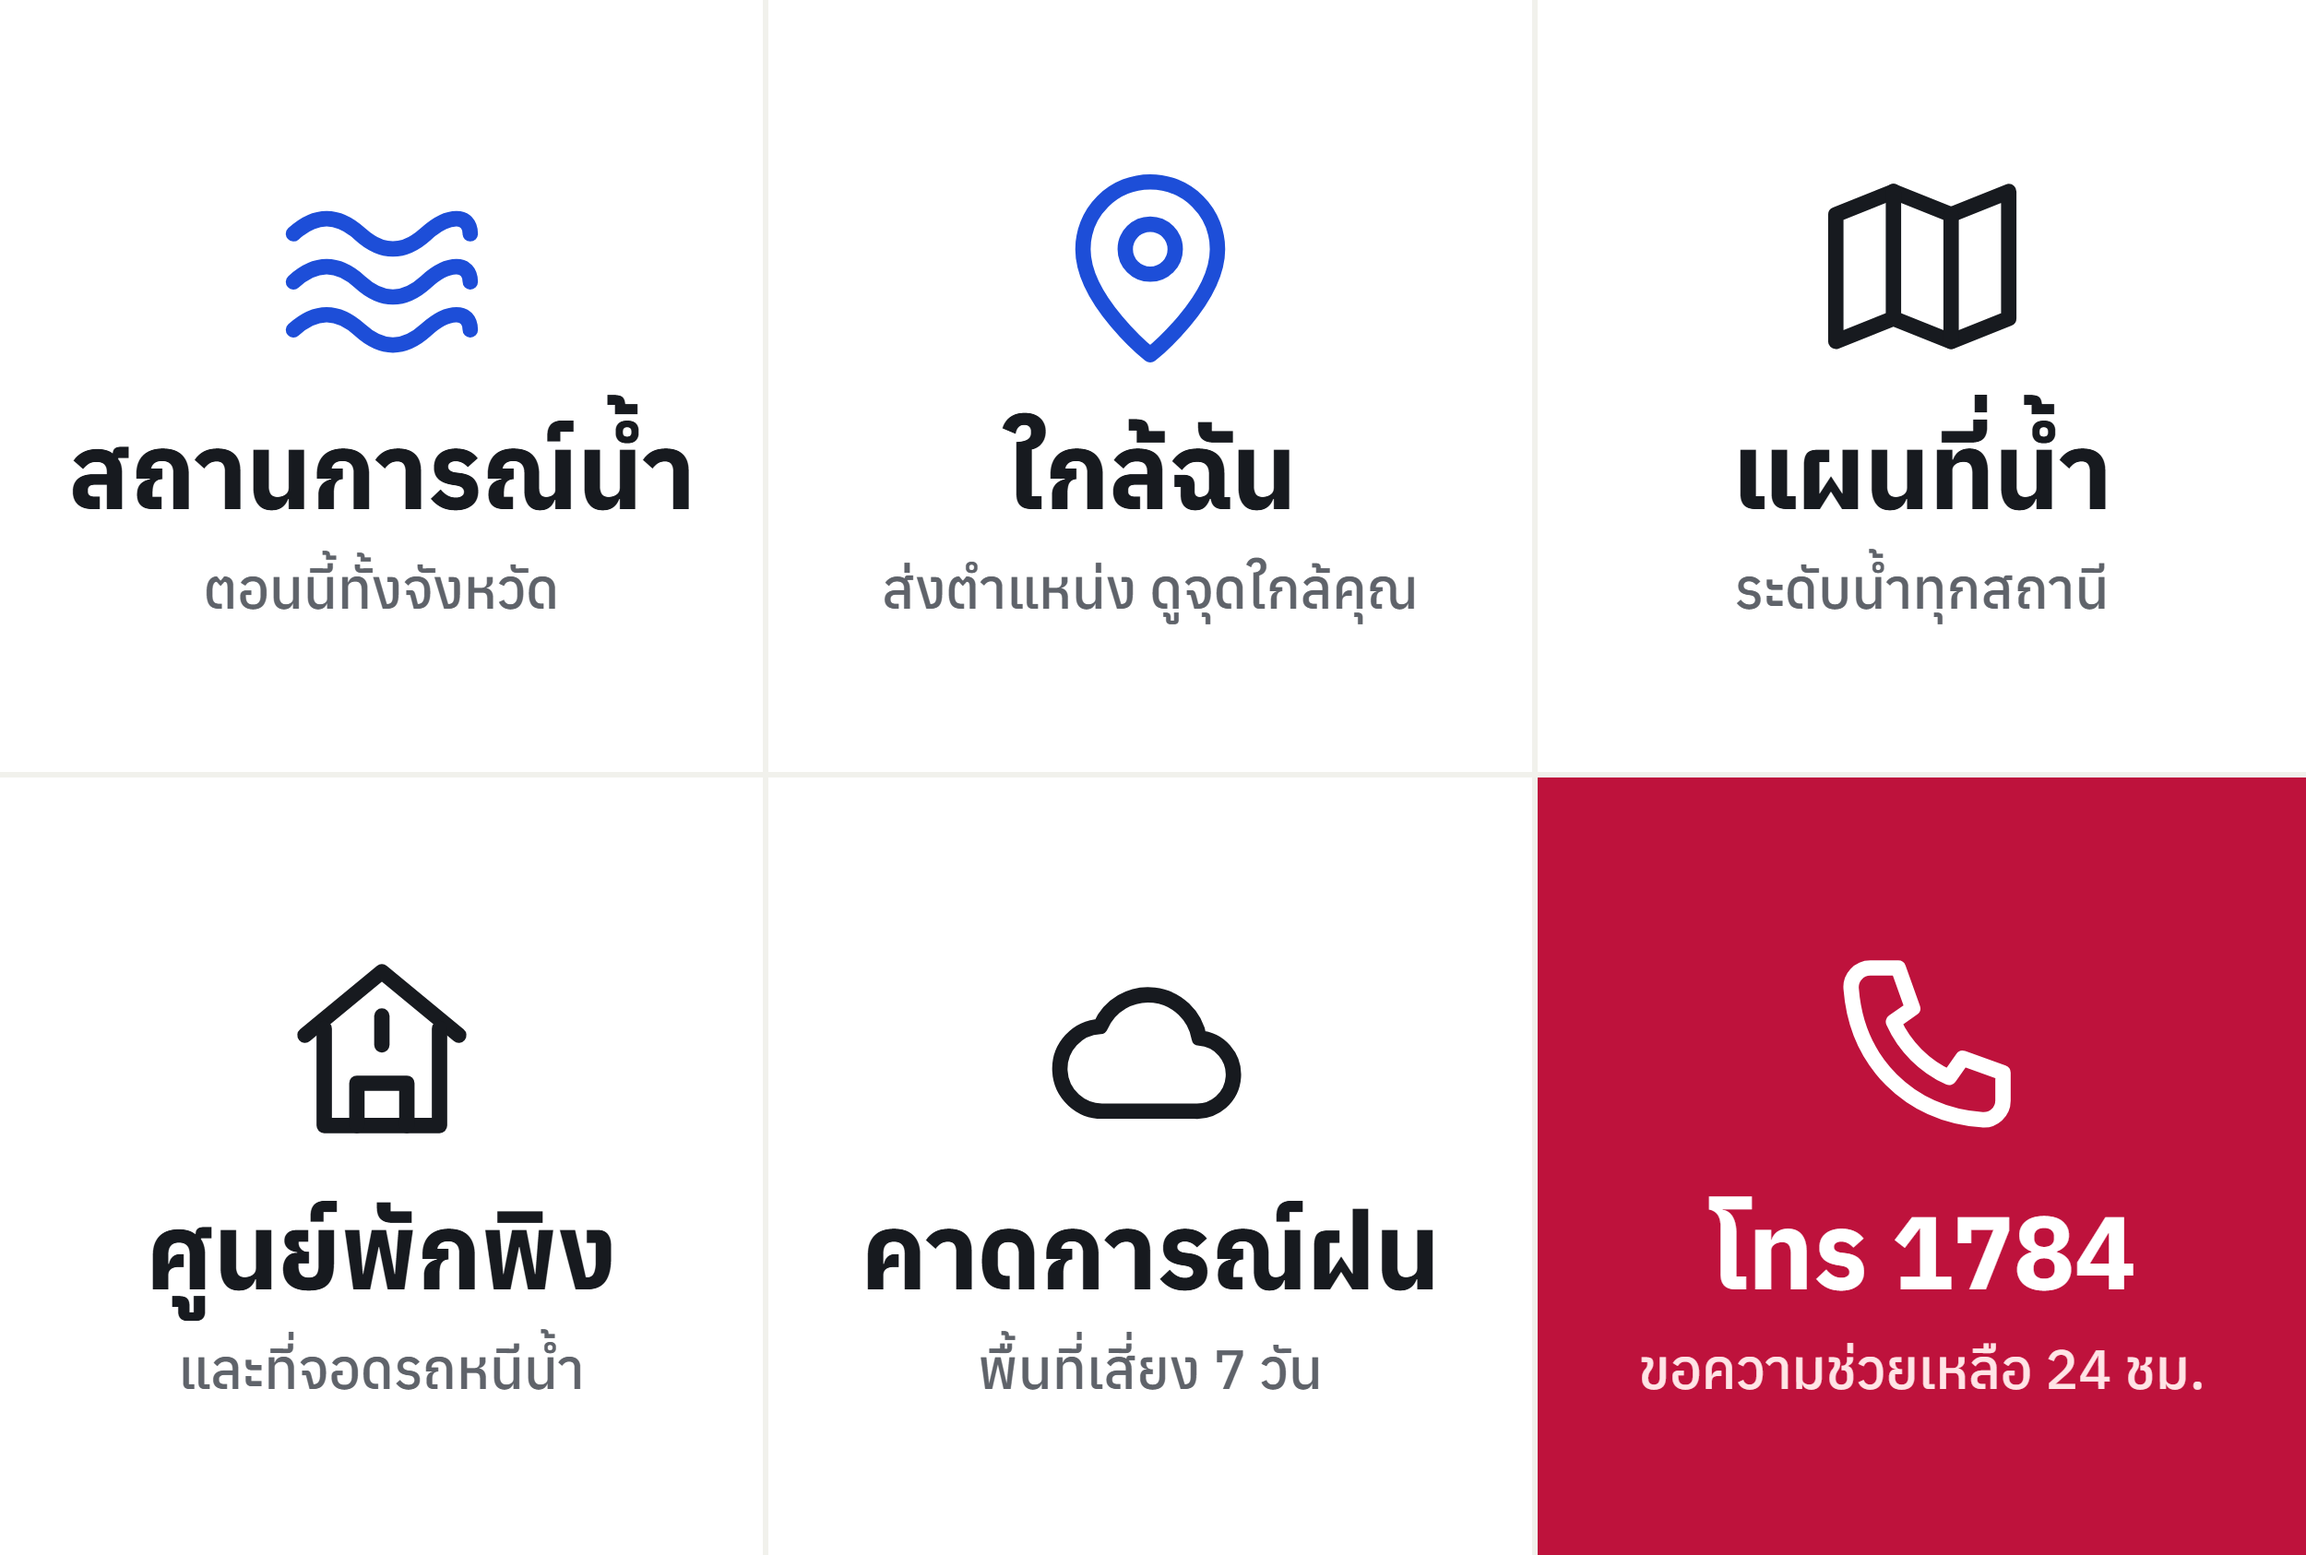
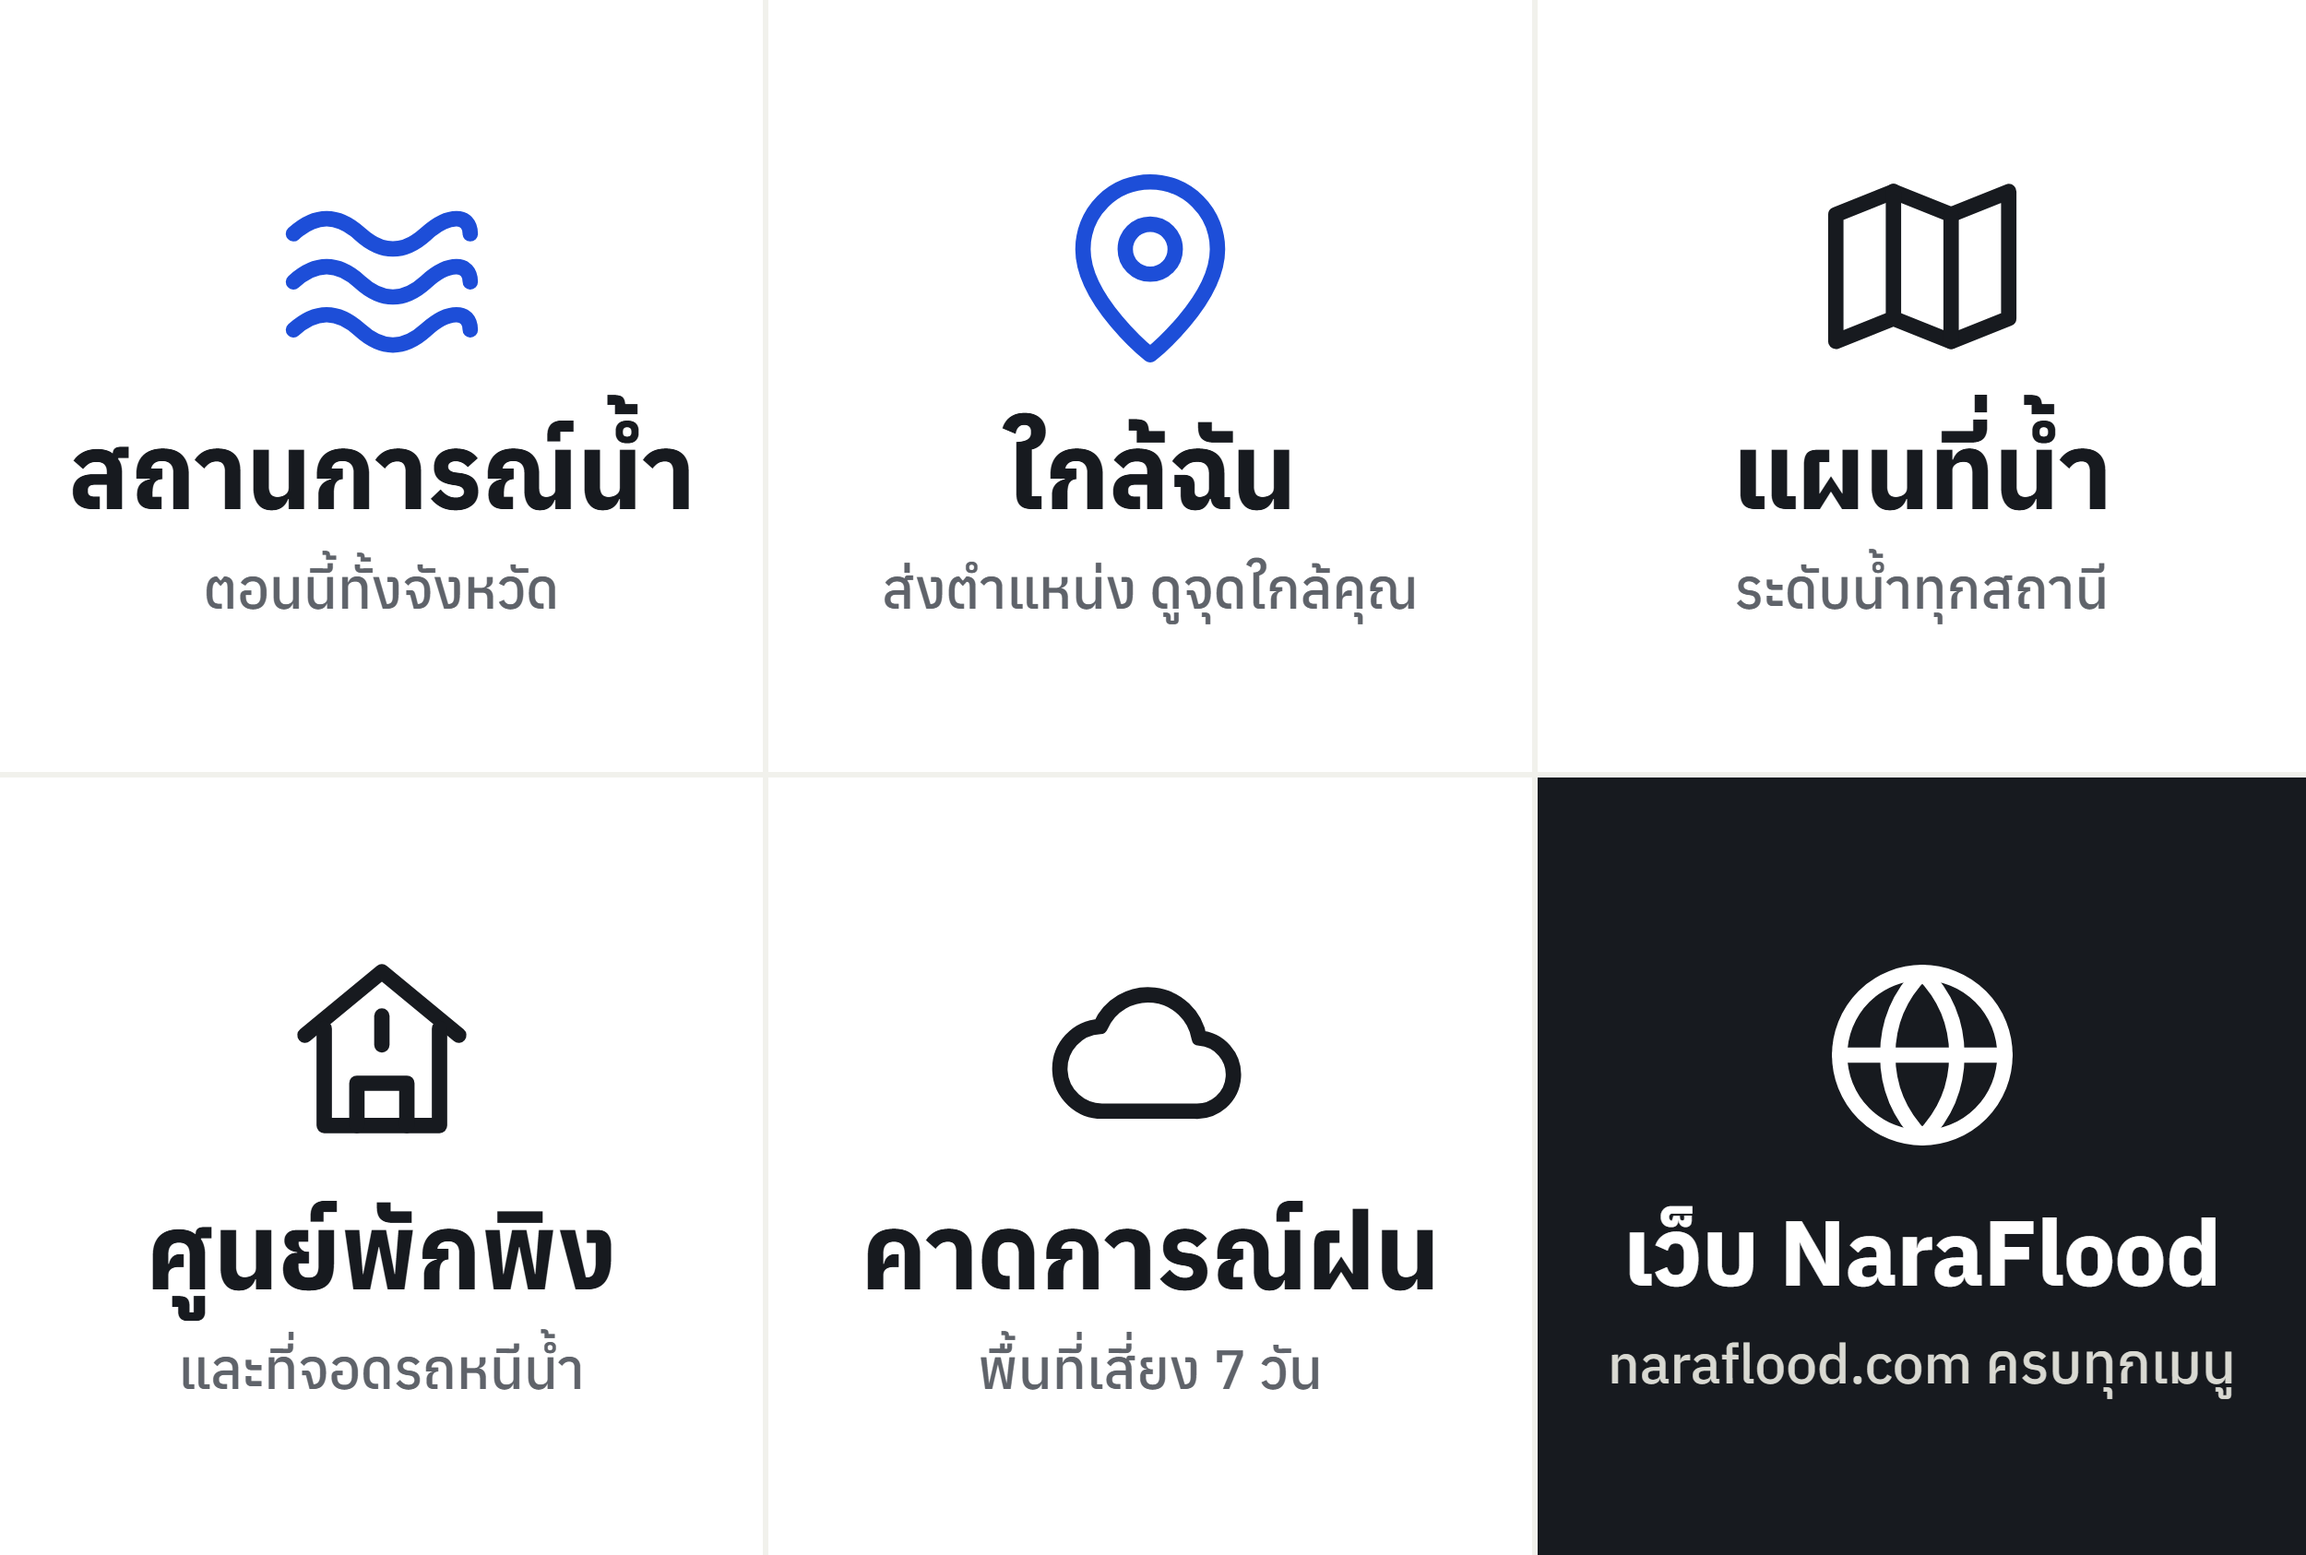
Swap the rich menu's 1784 button for a link to the website
The bottom-right button now opens https://naraflood.com/ in place of dialing
1784. It drops the red, which shared.css reserves for danger, and uses the
site's dark chrome color with a globe icon so it does not look like the
shelter button. The hotline is still in the welcome message and in the
"ช่วยเหลือ" quick reply.

Changed region(s): [[0.6552, 0.4935, 1.0, 1.0]]

diff --git a/line-oa/richmenu.html b/line-oa/richmenu.html
@@ -4,7 +4,7 @@
 <meta charset="utf-8">
 <title>NaraFlood rich menu 2500×1686</title>
 <!-- ต้นฉบับรูป rich menu · ขนาดจริง 2500×1686 px · ถ่ายใหม่ด้วยคำสั่งใน line-oa/README.md
-     สีคัดจาก token ใน shared.css (paper, card, ink, line, st-danger) · ไอคอนชุดเดียวกับ js/tabbar.js
+     สีคัดจาก token ใน shared.css (paper, card, ink, line) · ช่องเว็บใช้สีเข้มของตัวเว็บ ไม่ใช้แดงที่สงวนไว้กับสถานการณ์ · ไอคอนชุดเดียวกับ js/tabbar.js
      ผังช่องต้องตรงกับ bounds ใน richmenu.json (3 คอลัมน์ 833/834/833 × 2 แถว 843) -->
 <link rel="preconnect" href="https://fonts.googleapis.com">
 <link rel="preconnect" href="https://fonts.gstatic.com" crossorigin>
@@ -12,7 +12,7 @@
 <style>
   :root{
     --paper:#f1f1ec; --card:#ffffff; --ink:#171a1f; --ink-3:#5f636a; --line:#d9d9d2;
-    --data:#1d4ed8; --st-danger:#be123c;
+    --data:#1d4ed8;
   }
   *{box-sizing:border-box;margin:0}
   html,body{width:2500px;height:1686px;overflow:hidden;background:var(--paper)}
@@ -26,9 +26,10 @@
   .cell.main svg{stroke:var(--data)}
   b{font-size:112px;font-weight:700;white-space:nowrap;line-height:1.08;letter-spacing:-1px}
   small{font-size:60px;font-weight:500;white-space:nowrap;color:var(--ink-3);line-height:1.1}
-  .cell.sos{background:var(--st-danger);color:#fff}
-  .cell.sos svg{stroke:#fff}
-  .cell.sos small{color:#ffe4e6}
+  .cell.web{background:var(--ink);color:#fff}
+  .cell.web svg{stroke:#fff}
+  .cell.web small{color:#d9d9d2}
+  .cell.web b{font-size:100px}
 </style>
 </head>
 <body>
@@ -52,9 +53,9 @@
     <svg viewBox="0 0 24 24"><path d="M7.2 18.5h9.4a3.8 3.8 0 0 0 .5-7.6 5.4 5.4 0 0 0-10.3-1.2 3.9 3.9 0 0 0 .4 8.8z"/></svg>
     <b>คาดการณ์ฝน</b><small>พื้นที่เสี่ยง 7 วัน</small>
   </div>
-  <div class="cell sos">
-    <svg viewBox="0 0 24 24"><path d="M6.6 3.6h2.9l1.5 4.2-2 1.4a11.6 11.6 0 0 0 5.8 5.8l1.4-2 4.2 1.5v2.9a2 2 0 0 1-2.2 2C10.6 18.8 5.2 13.4 4.6 5.8a2 2 0 0 1 2-2.2z"/></svg>
-    <b>โทร 1784</b><small>ขอความช่วยเหลือ 24 ชม.</small>
+  <div class="cell web">
+    <svg viewBox="0 0 24 24"><circle cx="12" cy="12" r="8.6"/><path d="M3.4 12h17.2"/><path d="M12 3.4c2.4 2.4 3.6 5.3 3.6 8.6s-1.2 6.2-3.6 8.6c-2.4-2.4-3.6-5.3-3.6-8.6s1.2-6.2 3.6-8.6z"/></svg>
+    <b>เว็บ NaraFlood</b><small>naraflood.com ครบทุกเมนู</small>
   </div>
 </body>
 </html>
